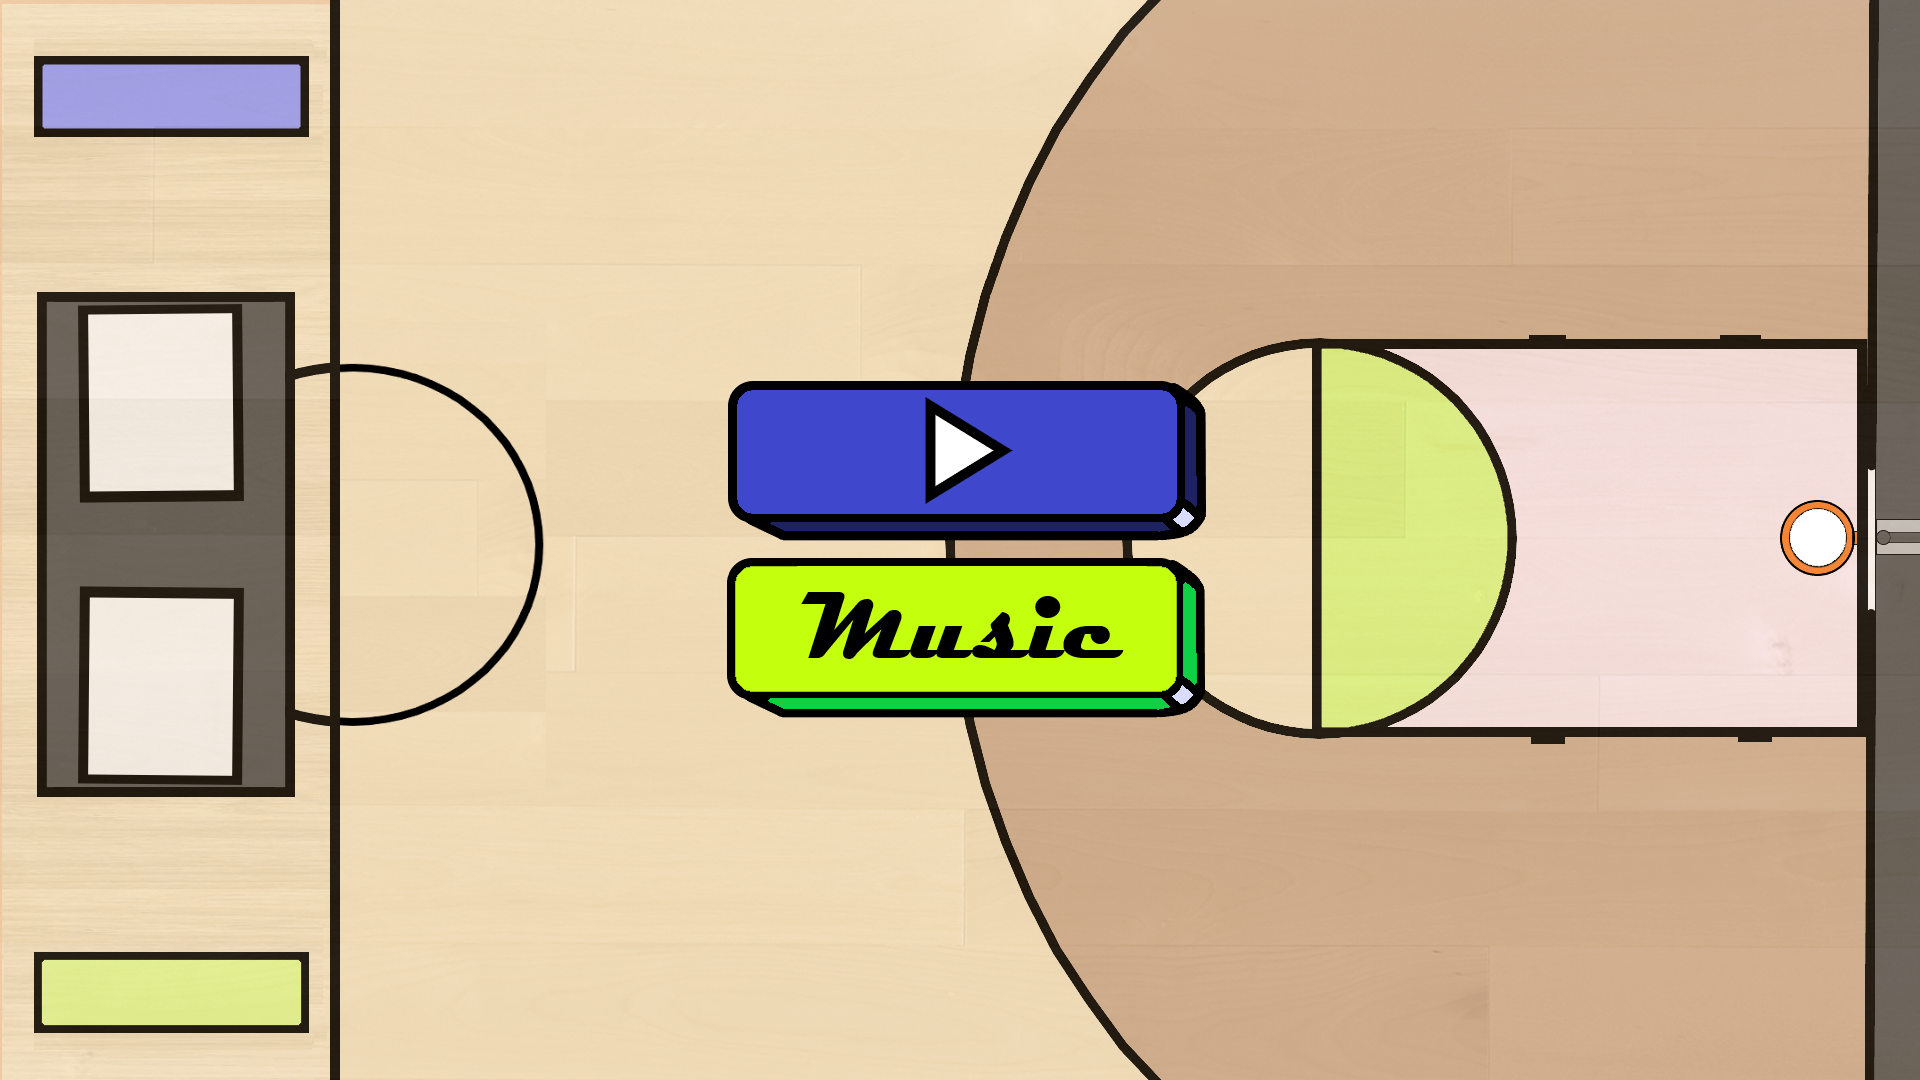
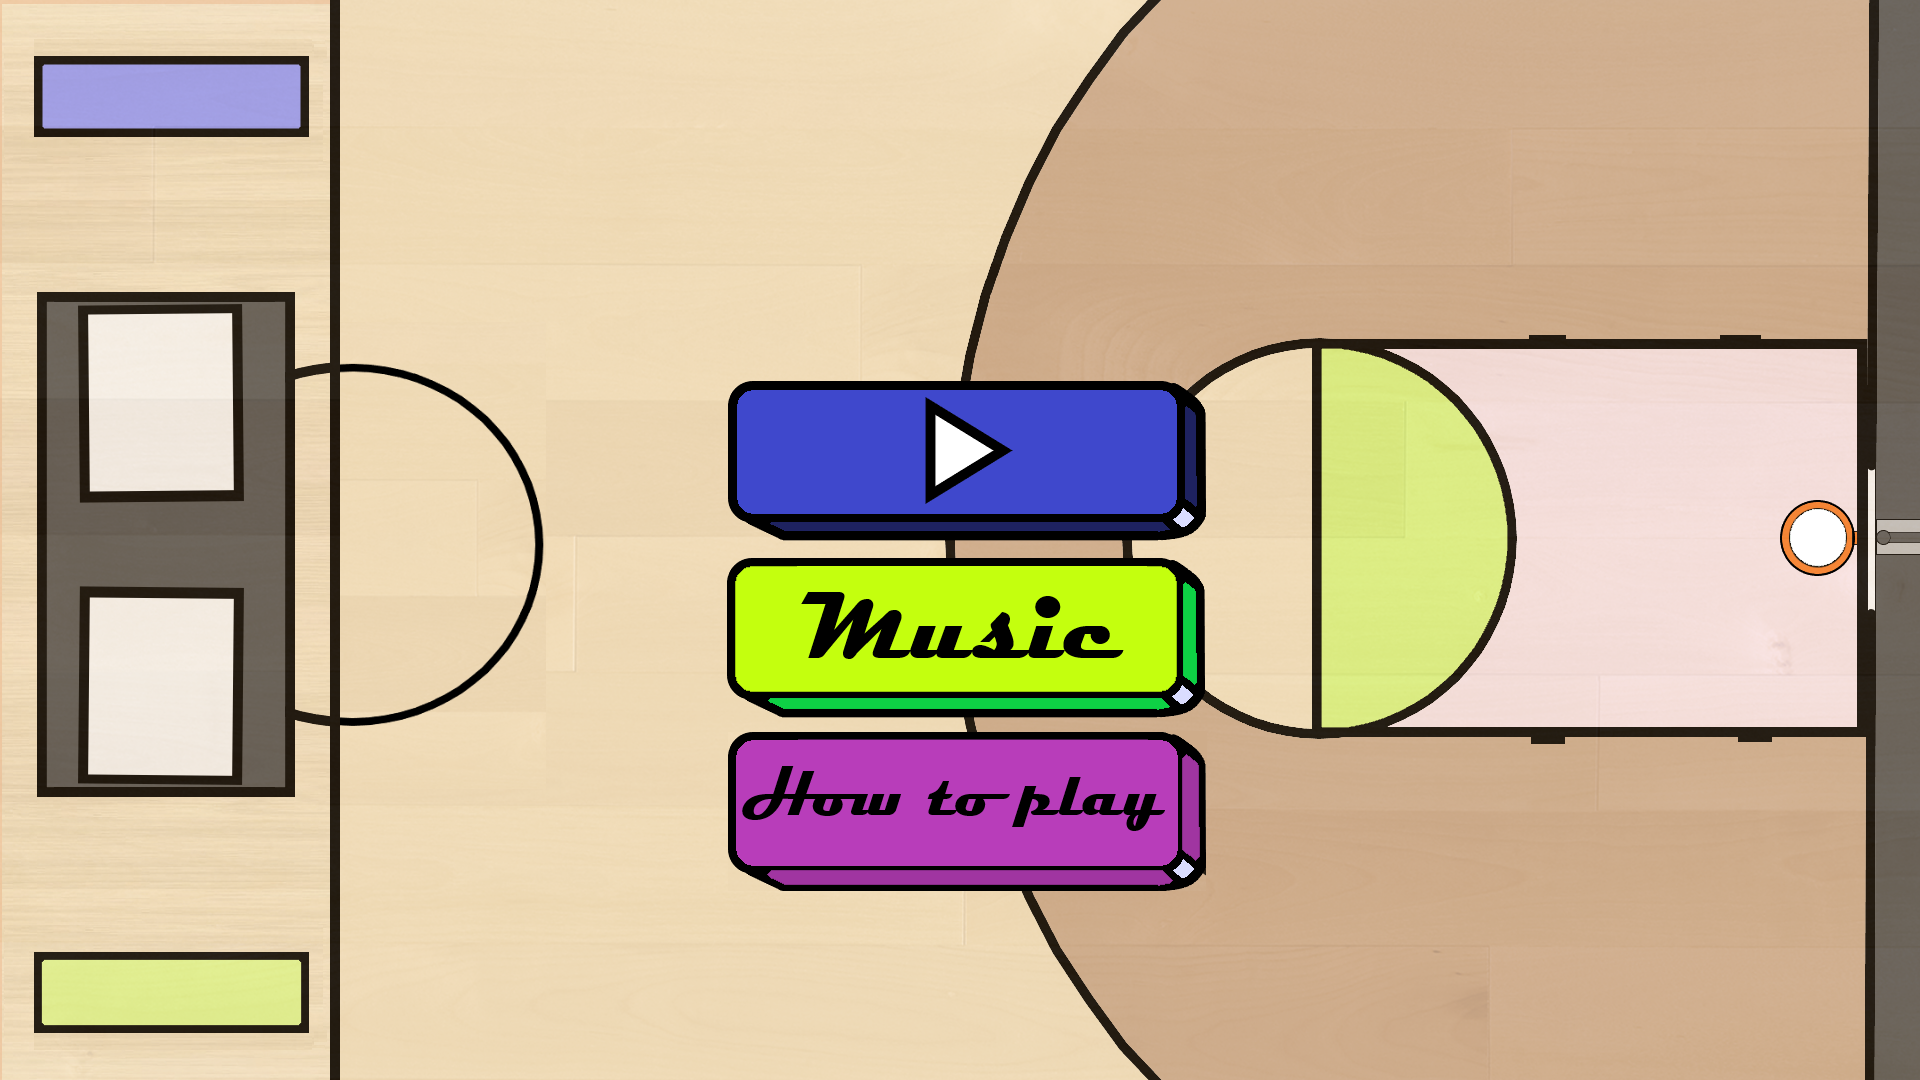
Made some changes to main to get ready to add a how to play section, also fixed up music player issues

Changed region(s): [[0.375, 0.6722, 0.625, 0.825]]

diff --git a/game.py b/game.py
@@ -27,8 +27,8 @@ title_3 = title_font.render("AA Streetball", False, (13, 20, 211))
 p1_game_win_text = font.render("Player 1 Won!", False, (255, 255, 100))
 p2_game_win_text = font.render("Player 2 Won!", False, (255, 255, 100))
 court = pygame.image.load("images/Court.png")
-x = pygame.image.load("images/pascal.png")
-o = pygame.image.load("images/scottie.png")
+pascal = pygame.image.load("images/pascal.png")
+scottie = pygame.image.load("images/scottie.png")
 
 
 def main():
@@ -36,15 +36,17 @@ def main():
     start_y = 0
     i = 1
     title_count = 1
-    p1 = Player(774, 598, x, 6, 6, 50, 100, True, 1)
-    p2 = Player(874, 543, o, 6, 6, 50, 100, False, 2)
+    p1 = Player(774, 598, pascal, 6, 6, 50, 100, True, 1)
+    p2 = Player(874, 543, scottie, 6, 6, 50, 100, False, 2)
     p1.player_movement = 1
     p2.player_movement = 2
     keys = pygame.key.get_pressed()
     run = True
     in_title = True
+    in_team = False
     in_options = False
     in_music = False
+    in_how_to_play = False
     in_game = False
     slider_x = 920
     slider_y = 50
@@ -59,12 +61,6 @@ def main():
     song_number = 0
     skip_timer = 0
     rewind_timer = 0
-    skip_song = Button(1020, 900, 1475, 980, False)
-    rewind_song = Button(525, 900, 1035, 980, False)
-    go_back = Button(27, 20, 484, 160, False)
-    volume_slider = Slider(
-        slider_x, slider_y, slider_x + 10, slider_y + 10, False, False
-    )
     while run:
         keys = pygame.key.get_pressed()
         clock.tick(60)
@@ -84,8 +80,8 @@ def main():
             title_count += 1
             start_x += i
             start_y += i
-            win.blit(x, (160 + start_x, 100 + start_y**2))
-            win.blit(o, (160 + start_x, 850 + start_y**2))
+            win.blit(pascal, (160 + start_x, 100 + start_y**2))
+            win.blit(scottie, (160 + start_x, 850 + start_y**2))
             if title_count <= 20:
                 win.blit(title_1, (400, 400))
             elif title_count <= 40:
@@ -99,26 +95,45 @@ def main():
             if keys[pygame.K_RETURN]:
                 in_options = True
                 in_title = False
-
+        elif in_team == True:
+            win.blit(pascal, (700, 250))
+            win.blit(scottie, (700, 830))
+            if keys[pygame.K_RETURN]:
+                in_game = True
+                in_team = False
+            pygame.display.update()
+            pygame.display.flip()
         elif in_options == True:
 
             play_game = Button(728, 385, 1185, 515, False)
             music = Button(728, 558, 1185, 695, False)
+            how_to_play = Button(728, 731, 1185, 775, False)
 
             play_game.on_click()
             music.on_click()
+            how_to_play.on_click()
             if play_game.click:
-                in_game = True
+                in_team = True
                 in_options = False
 
             if music.click:
                 in_music = True
+                in_options = False
+
+            if how_to_play.click:
+                in_how_to_play = True
                 in_options = False
             win.blit(pygame.image.load("images/Home_Screen.png"), (0, 0))
             play_game.draw(win)
             music.draw(win)
 
         elif in_music:
+            skip_song = Button(1020, 900, 1475, 980, False)
+            rewind_song = Button(525, 900, 1035, 980, False)
+            go_back = Button(27, 20, 484, 160, False)
+            volume_slider = Slider(
+                slider_x, slider_y, slider_x + 10, slider_y + 10, False, False
+            )
             win.blit(pygame.image.load("images/Music_Screen.png"), (0, 0))
             win.blit(song_image[song_number], (718, 259))
 
@@ -130,6 +145,7 @@ def main():
             if go_back.click:
                 in_options = True
                 in_music = False
+                go_back.click = False
             volume_slider.draw(win)
             skip_song.on_click()
             rewind_song.on_click()
@@ -158,45 +174,45 @@ def main():
             if p1.reset_possession:
                 p1.reset_possession = False
                 placement_score = p1.score
-                p1 = Player(774, 598, x, 6, 6, 50, 100, True, 1)
+                p1 = Player(774, 598, pascal, 6, 6, 50, 100, True, 1)
                 p1.score = placement_score
                 placement_score = p2.score
-                p2 = Player(874, 543, o, 6, 6, 50, 100, False, 2)
+                p2 = Player(874, 543, scottie, 6, 6, 50, 100, False, 2)
                 p2.score = placement_score
             if p2.reset_possession:
                 p2.reset_possession = False
                 placement_score = p1.score
-                p1 = Player(874, 598, x, 6, 6, 50, 100, False, 1)
+                p1 = Player(874, 598, pascal, 6, 6, 50, 100, False, 1)
                 p1.score = placement_score
                 placement_score = p2.score
-                p2 = Player(774, 543, o, 6, 6, 50, 100, True, 2)
+                p2 = Player(774, 543, scottie, 6, 6, 50, 100, True, 2)
                 p2.score = placement_score
                 p1.player_movement = 1
                 p2.player_movement = 2
             if p1.possession_change:
                 p2.reset_possession = False
                 placement_score = p1.score
-                p1 = Player(874, 598, x, 6, 6, 50, 100, False, 1)
+                p1 = Player(874, 598, pascal, 6, 6, 50, 100, False, 1)
                 p1.score = placement_score
                 placement_score = p2.score
-                p2 = Player(774, 543, o, 6, 6, 50, 100, True, 2)
+                p2 = Player(774, 543, scottie, 6, 6, 50, 100, True, 2)
                 p2.score = placement_score
                 win.blit(writing, (200, 500))
                 time.sleep(1)
             if p2.possession_change:
                 p1.reset_possession = False
                 placement_score = p1.score
-                p1 = Player(774, 598, x, 6, 6, 50, 100, True, 1)
+                p1 = Player(774, 598, pascal, 6, 6, 50, 100, True, 1)
                 p1.score = placement_score
                 placement_score = p2.score
-                p2 = Player(874, 543, o, 6, 6, 50, 100, False, 2)
+                p2 = Player(874, 543, scottie, 6, 6, 50, 100, False, 2)
                 p2.score = placement_score
                 win.blit(writing, (200, 500))
                 time.sleep(1)
 
-            if p1.score == win_score:
+            if p1.score >= win_score:
                 win.blit(court, (0, 0))
-                win.blit(x, (850, 140))
+                win.blit(pascal, (850, 140))
                 win.blit(p1_game_win_text, (850, 100))
                 pygame.display.update()
                 pygame.display.flip()
@@ -205,9 +221,9 @@ def main():
                 p2.score = 0
                 in_game = False
                 in_options = True
-            if p2.score == win_score:
+            if p2.score >= win_score:
                 win.blit(court, (0, 0))
-                win.blit(o, (850, 140))
+                win.blit(scottie, (850, 140))
                 win.blit(p2_game_win_text, (850, 100))
                 time.sleep(5)
                 p1.score = 0
